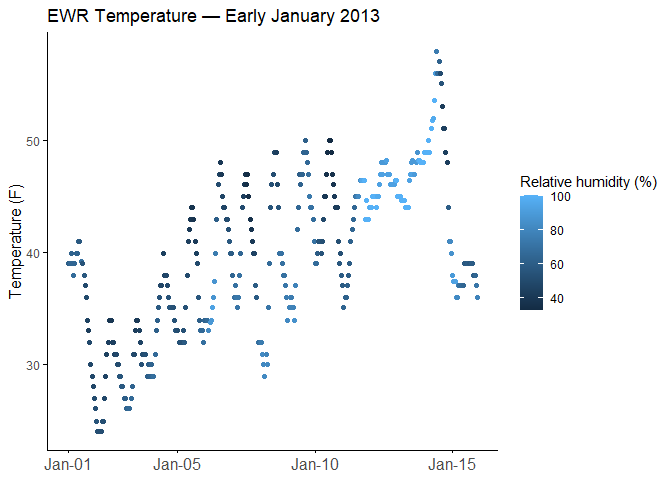
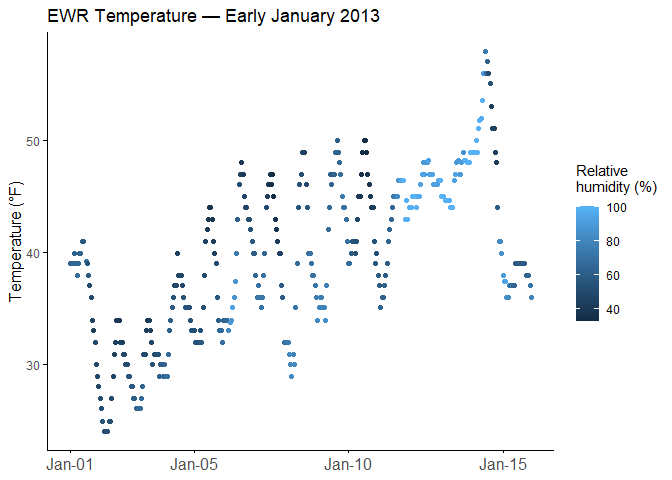
Final checking and fixing some issues.

diff --git a/p8105_hw1_hh2648.md b/p8105_hw1_hh2648.md
@@ -1,4 +1,4 @@
-Simple document
+P8105 Data Science I - Homework 1
 ================
 Heng Hu (hh2648)
 2025-09-14
@@ -22,6 +22,11 @@ origin <- unique(early_january_weather$origin)
 yr <- unique(early_january_weather$year)
 day_min <- min(early_january_weather$day)
 day_max <- max(early_january_weather$day)
+
+# Check whether the time interval between all consecutive records is one hour
+not_1hr_obs <- early_january_weather |> 
+  mutate(diff_hr = as.numeric(difftime(time_hour, lag(time_hour), units = "hours"))) |> 
+  filter(row_number() != 1 & (is.na(diff_hr) | diff_hr != 1))
 ```
 
 #### a. Description of the dataset:
@@ -32,18 +37,22 @@ names are
 `origin` variable indicates the data was collected from `EWR`, which is
 Newark Liberty International Airport. According to `year`, `month`, and
 `day` variables, we know that the observations were collected from
-`Jan 1, 2013` to `Jan 15, 2013`.
+`Jan 1, 2013` to `Jan 15, 2013`. At first glance at the values of
+`hour`, the records appear to be collected hourly. However, after
+calculating the time intervals between all consecutive records, `1`
+record was found not to have been collected one hour after the previous
+entry.
 
 `visib` is the visibility in miles. It is a critical parameter for
 airport operations. The mean visibility in this dataset is `8.5` miles,
-with a standard deviation of `3` miles.
+with a standard deviation of `3.0` miles.
 
-`wind_speed` is the speed of wind in MPH. It is another critical
-parameter for airport operations. The mean wind speed in this dataset is
-`8.2` MPH, with a standard deviation of `4.6` MPH.
+`wind_speed` is the speed of wind in miles per hour (mph). It is another
+critical parameter for airport operations. The mean wind speed in this
+dataset is `8.2` mph, with a standard deviation of `4.6` mph.
 
 In winter, temperature is also important for the airport. The mean
-temperature in early Januray, 2013 is `7.1` F.
+temperature in early Januray, 2013 is `7.1` °F.
 
 #### b. Make a scatter plot of temp (y) vs time_hour (x):
 
@@ -60,8 +69,8 @@ p <- early_january_weather |>
   geom_point() +
   theme_minimal() +
   labs(title = "EWR Temperature — Early January 2013",
-       y = "Temperature (F)",
-       col = "Relative humidity (%)") +
+       y = "Temperature (\u00B0F)",
+       col = "Relative\nhumidity (%)") +
   scale_x_datetime(breaks = x_breaks,
                    labels = function(x) format(x, "%b-%d")) +
   theme_minimal() +
@@ -72,10 +81,12 @@ p <- early_january_weather |>
         axis.title.y = element_text(size = 12),
         axis.line.x = element_line(color = "black"),
         axis.title.x = element_blank(),
-        axis.text.x = element_text(size = 12))
+        axis.text.x = element_text(size = 12),
+        legend.title = element_text(margin = margin(0,0,10,0))
+  )
 
 # Save the plot
-ggsave("EWR_early_jan_temp.png", p)
+ggsave("EWR_early_jan_temp.png", p, width = 8, height = 6, dpi = 600, bg = "white")
 p
 ```
 
@@ -84,7 +95,7 @@ p
 ## Problem 2
 
 ``` r
-# Set a seed to ensure consistent results.
+# Set a seed to ensure consistent results
 set.seed(2648)
 
 # Create a dataset with numeric, logic, character, and factor variables
